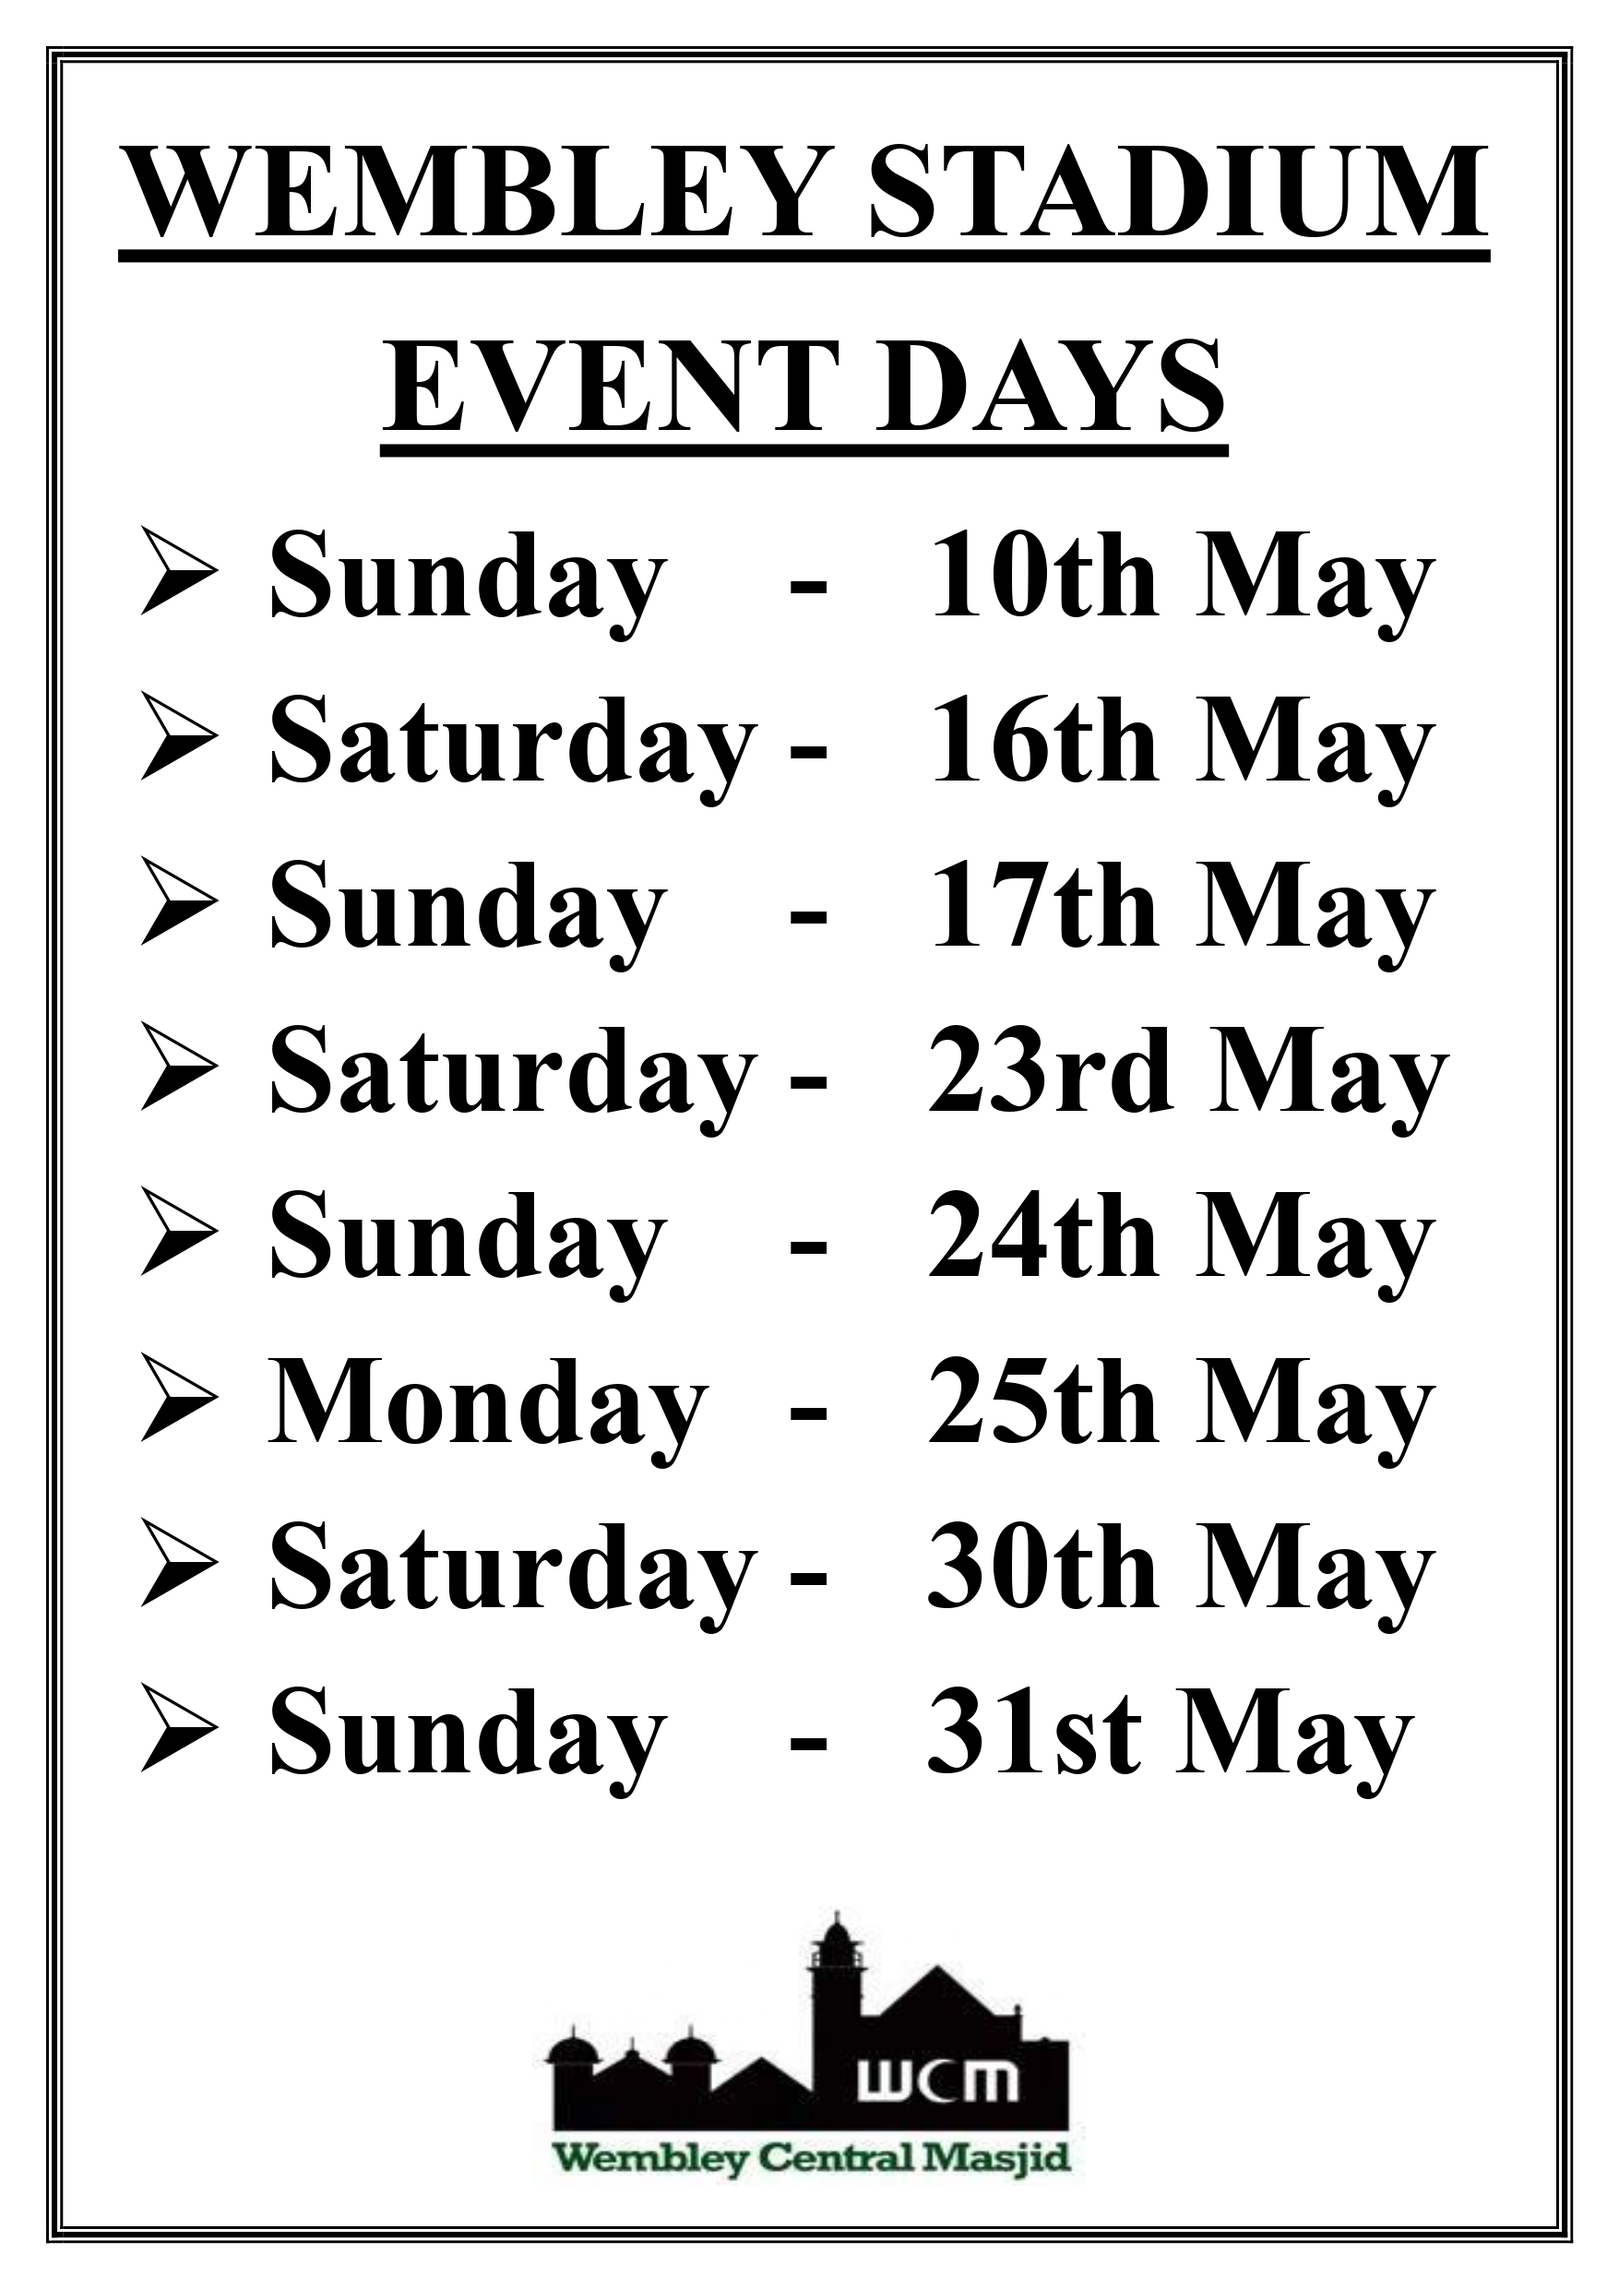
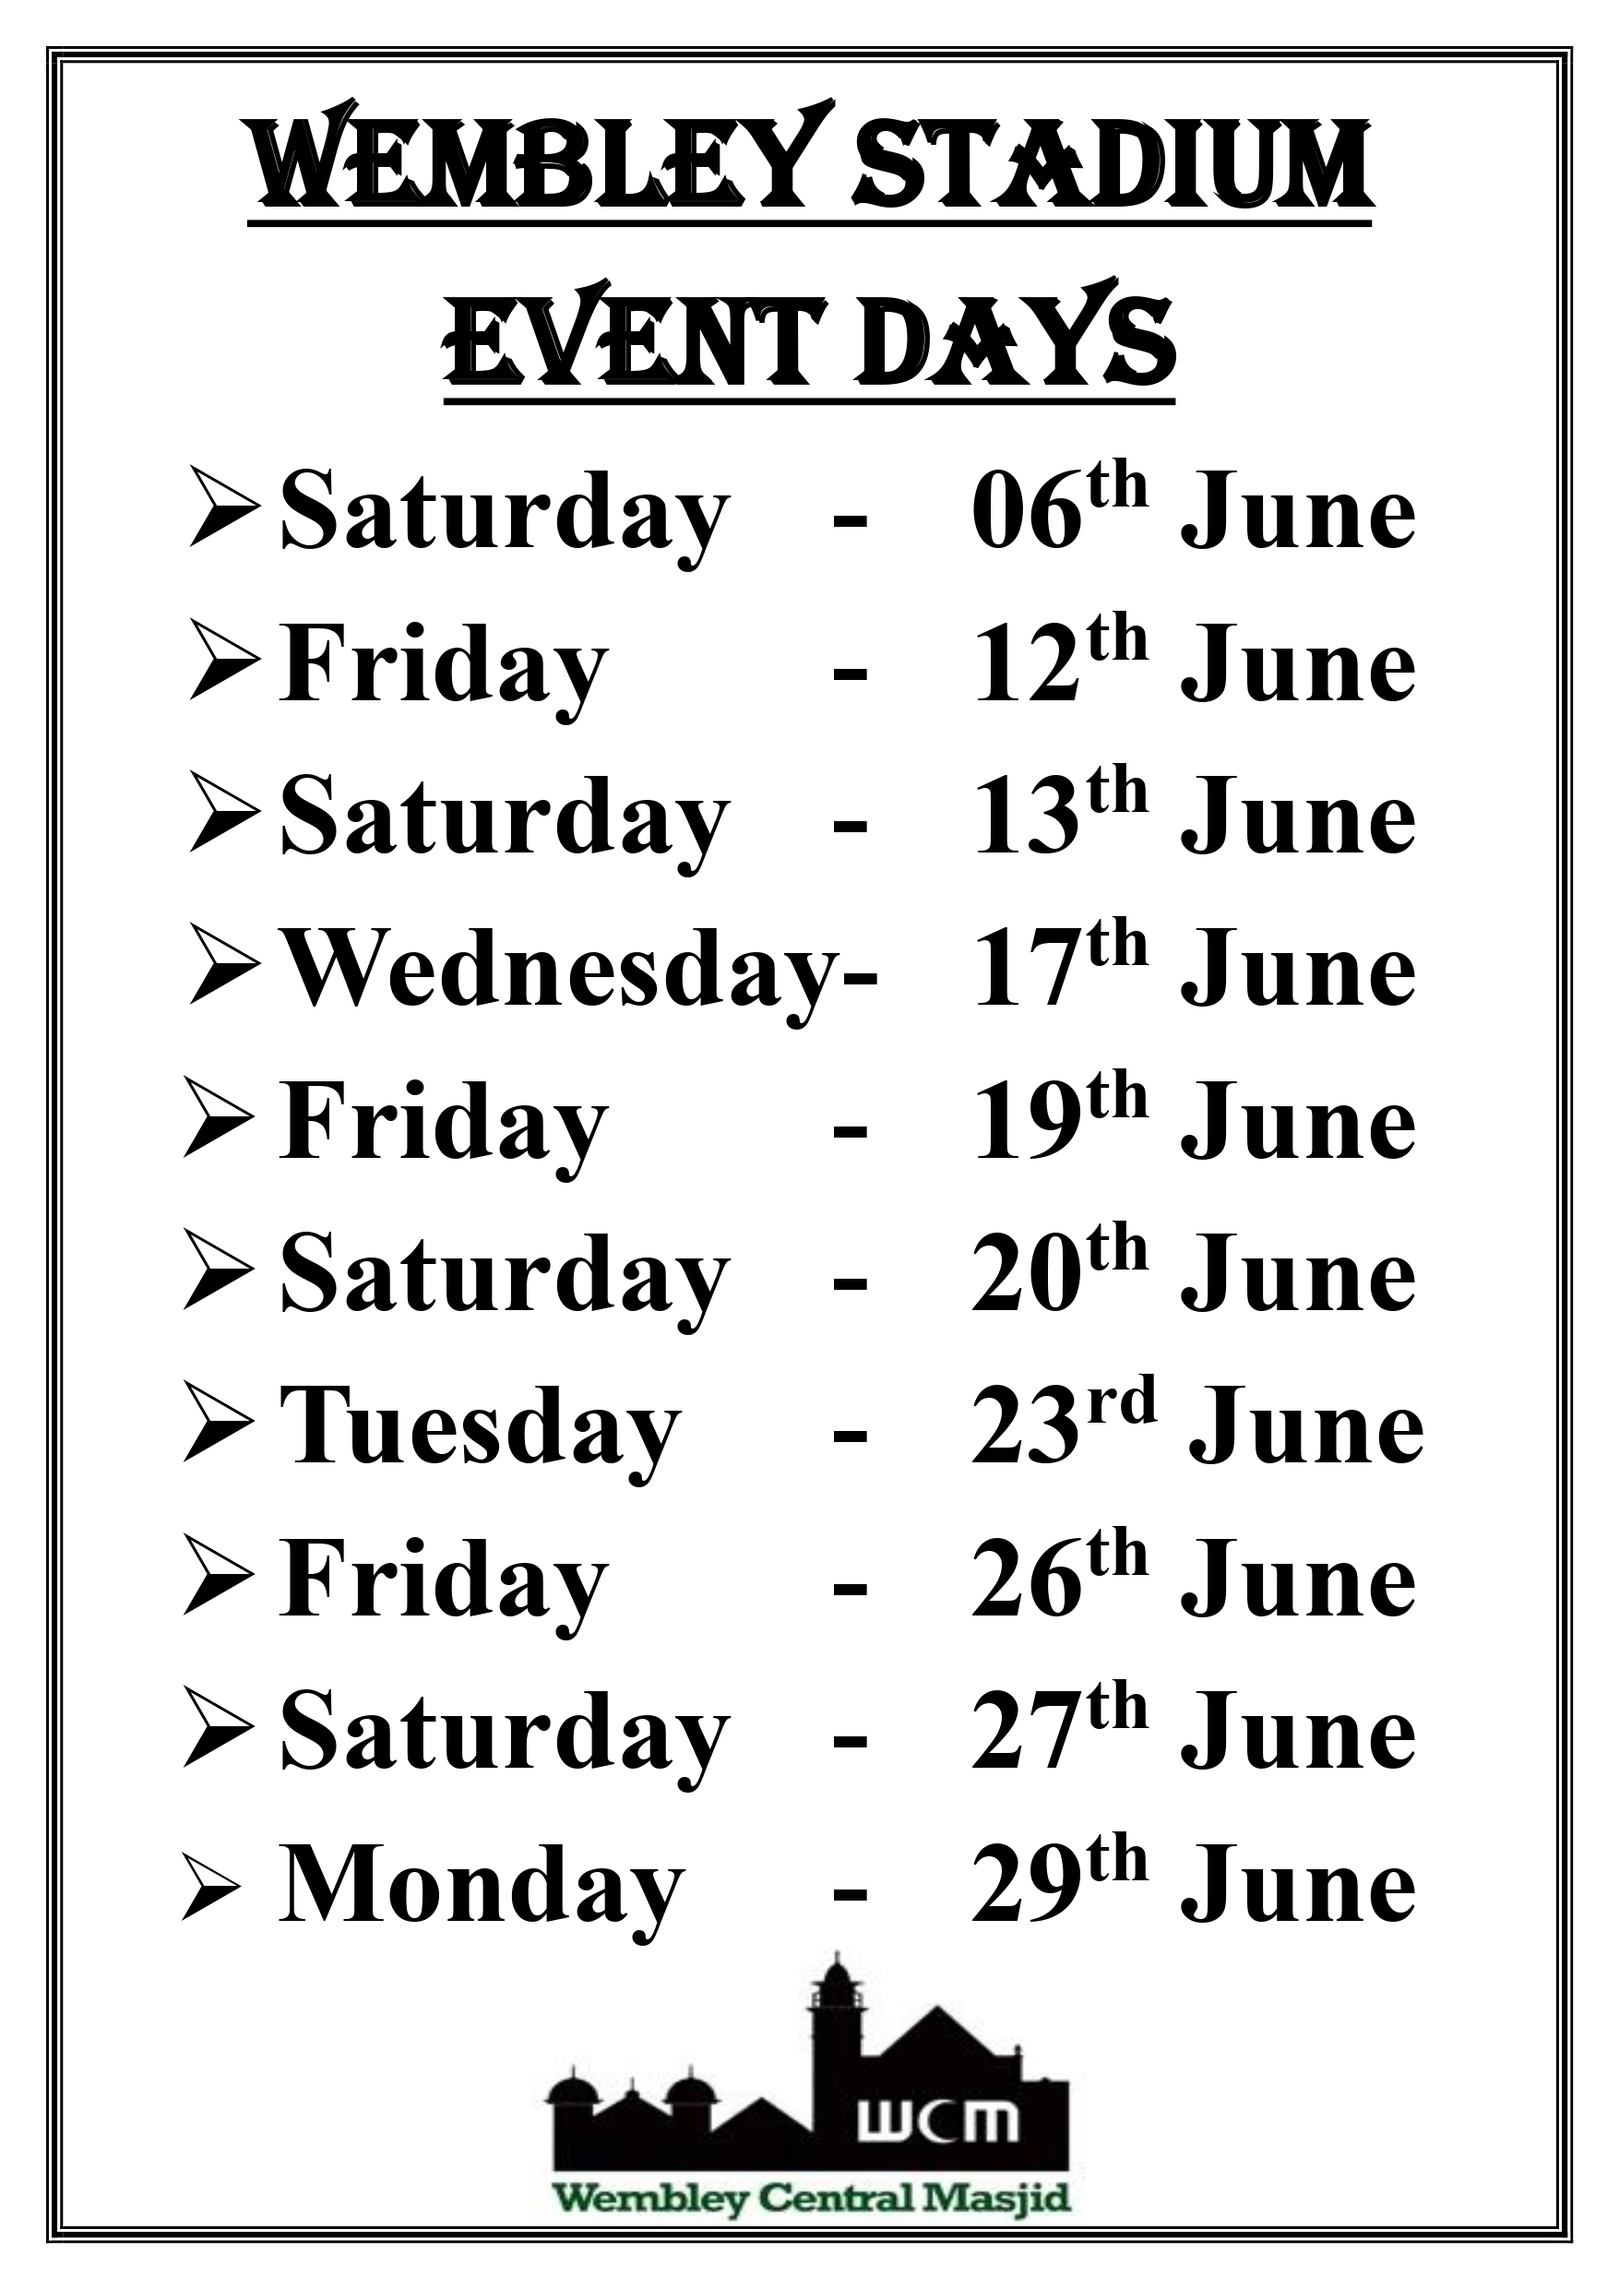
event days poster update

diff --git a/data/content.js b/data/content.js
@@ -5,18 +5,14 @@ App.content = [
     },
     {
         "image": "event_days.jpg",
-        "toDate": "2026-05-31 23:59:00"
+        "toDate": "2026-06-29 23:59:00"
     },
     {
         "image": "seerah_maghrib.jpg"
     },
     {
         "image": "tafseer_maghrib.jpg"
-    },
-    {
-        "image": "eid.jpg",
-        "toDate": "2026-05-27 10:30:00"
-    },
+    }
     {
         "image": "family_fun.jpg",
         "toDate": "2026-06-07 19:30:00"
